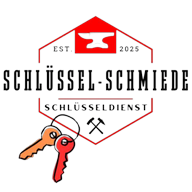
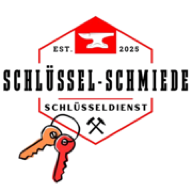
fix: replace missing low-quality AI images with new high-quality backgrounds

Changed region(s): [[0.0, 0.0938, 1.0, 0.9688], [0.5312, 0.0938, 0.5625, 0.125]]

diff --git a/app/(marketing)/leistungen/autooeffnung/page.tsx b/app/(marketing)/leistungen/autooeffnung/page.tsx
@@ -61,7 +61,7 @@ export default function AutooeffnungPage() {
       }}
     />
     {/* Background Atmosphere increased visibility */}
-    <div className="absolute inset-0 opacity-[0.18] sm:opacity-[0.22] bg-[url(/images/generated/schluesseldienst-wetzlar-autooeffnung-nacht-werkzeug.webp)] bg-cover bg-center"></div>
+    <div className="absolute inset-0 opacity-[0.18] sm:opacity-[0.22] bg-[url(/images/bg-autooeffnung.png)] bg-cover bg-center"></div>
     <div className="absolute inset-0 bg-gradient-to-t from-white via-white/60 to-transparent z-0"></div>
 
     <div className="container mx-auto px-[var(--section-px)] relative z-10 flex flex-col items-center text-center">

diff --git a/app/(marketing)/leistungen/autoschluessel/page.tsx b/app/(marketing)/leistungen/autoschluessel/page.tsx
@@ -69,7 +69,7 @@ export default function AutoschluesselPage() {
      }}
     />
     {/* Background Atmosphere increased visibility */}
-    <div className="absolute inset-0 opacity-[0.18] sm:opacity-[0.22] bg-[url(/images/generated/schluesseldienst-wetzlar-autoschluessel-programmierung-1.webp)] bg-cover bg-center"></div>
+    <div className="absolute inset-0 opacity-[0.18] sm:opacity-[0.22] bg-[url(/images/bg-autoschluessel.png)] bg-cover bg-center"></div>
     <div className="absolute inset-0 bg-gradient-to-t from-white via-white/60 to-transparent z-0"></div>
 
     <div className="container mx-auto px-[var(--section-px)] relative z-10 flex flex-col items-center text-center">

diff --git a/app/(marketing)/leistungen/schliessanlagen/page.tsx b/app/(marketing)/leistungen/schliessanlagen/page.tsx
@@ -71,7 +71,7 @@ export default function SchliessanlagenPage() {
      }}
     />
     {/* Background Atmosphere increased visibility */}
-    <div className="absolute inset-0 opacity-[0.18] sm:opacity-[0.22] bg-[url(/images/generated/schluesseldienst-wetzlar-sicherheitszylinder-einbau.webp)] bg-cover bg-center"></div>
+    <div className="absolute inset-0 opacity-[0.18] sm:opacity-[0.22] bg-[url(/images/bg-schliessanlagen.png)] bg-cover bg-center"></div>
     <div className="absolute inset-0 bg-gradient-to-t from-white via-white/60 to-transparent z-0"></div>
 
     <div className="container mx-auto px-[var(--section-px)] relative z-10 flex flex-col items-center text-center">

diff --git a/app/(marketing)/leistungen/schluessel-nachmachen/page.tsx b/app/(marketing)/leistungen/schluessel-nachmachen/page.tsx
@@ -70,7 +70,7 @@ export default function SchluesselNachmachenPage() {
      }}
     />
     {/* Background Atmosphere increased visibility */}
-    <div className="absolute inset-0 opacity-[0.18] sm:opacity-[0.22] bg-[url(/images/generated/schluesseldienst-wetzlar-schluessel-fraesen-cnc-maschine.webp)] bg-cover bg-center"></div>
+    <div className="absolute inset-0 opacity-[0.18] sm:opacity-[0.22] bg-[url(/images/bg-schluessel-nachmachen.png)] bg-cover bg-center"></div>
     <div className="absolute inset-0 bg-gradient-to-t from-white via-white/60 to-transparent z-0"></div>
 
     <div className="container mx-auto px-[var(--section-px)] relative z-10 flex flex-col items-center text-center">

diff --git a/app/(marketing)/leistungen/sicherheitstechnik/page.tsx b/app/(marketing)/leistungen/sicherheitstechnik/page.tsx
@@ -71,7 +71,7 @@ export default function SicherheitstechnikPage() {
       }}
     />
     {/* Background Atmosphere increased visibility */}
-    <div className="absolute inset-0 opacity-[0.18] sm:opacity-[0.22] bg-[url(/images/generated/schluesseldienst-wetzlar-panzerriegel-altbau-holztuer.webp)] bg-cover bg-center"></div>
+    <div className="absolute inset-0 opacity-[0.18] sm:opacity-[0.22] bg-[url(/images/bg-sicherheitstechnik.png)] bg-cover bg-center"></div>
     <div className="absolute inset-0 bg-gradient-to-t from-white via-white/60 to-transparent z-0"></div>
 
     <div className="container mx-auto px-[var(--section-px)] relative z-10 flex flex-col items-center text-center">

diff --git a/app/(marketing)/leistungen/turoeffnung/page.tsx b/app/(marketing)/leistungen/turoeffnung/page.tsx
@@ -74,7 +74,7 @@ export default function TuroeffnungPage() {
       }}
     />
     {/* Background Atmosphere increased visibility */}
-    <div className="absolute inset-0 opacity-[0.18] sm:opacity-[0.22] bg-[url(/images/generated/schluesseldienst-wetzlar-zerstoerungsfreie-tueroeffnung-werkzeug.webp)] bg-cover bg-center"></div>
+    <div className="absolute inset-0 opacity-[0.18] sm:opacity-[0.22] bg-[url(/images/bg-tueroeffnung.png)] bg-cover bg-center"></div>
     <div className="absolute inset-0 bg-gradient-to-t from-white via-white/60 to-transparent z-0"></div>
 
     <div className="container mx-auto px-[var(--section-px)] relative z-10 flex flex-col items-center text-center">

diff --git a/lib/data/imageAssets.ts b/lib/data/imageAssets.ts
@@ -236,7 +236,7 @@ export const tueroeffnungImages: ImageAsset[] = [
     category: "tueroeffnung",
   },
   {
-    src: "/images/schloss-mit-schluessel-tueroeffnung-schluesseldienst-wetzlar.webp",
+    src: "/images/schloss-mit-schluessel-tueroeffnung-schluesseldienst-wetzlar.jpeg",
     alt: "Schloss mit Schlüssel bei Türöffnung und Schlüsseldienst Wetzlar",
     title: "Schloss mit Schlüssel und Türöffnung",
     width: 1200,